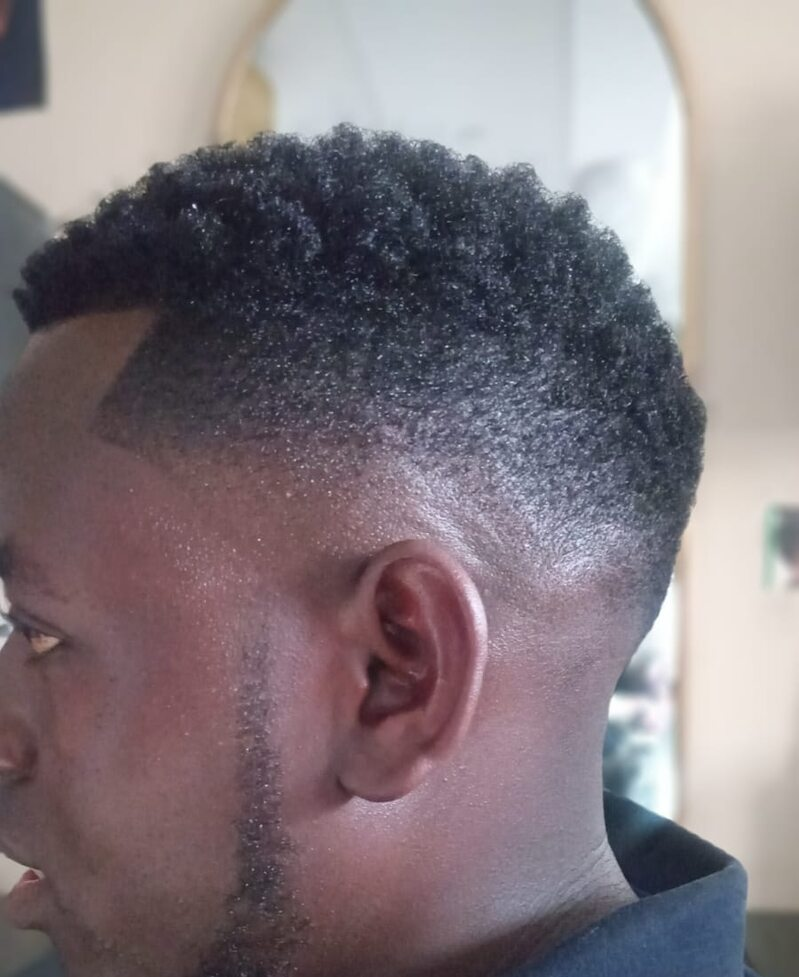
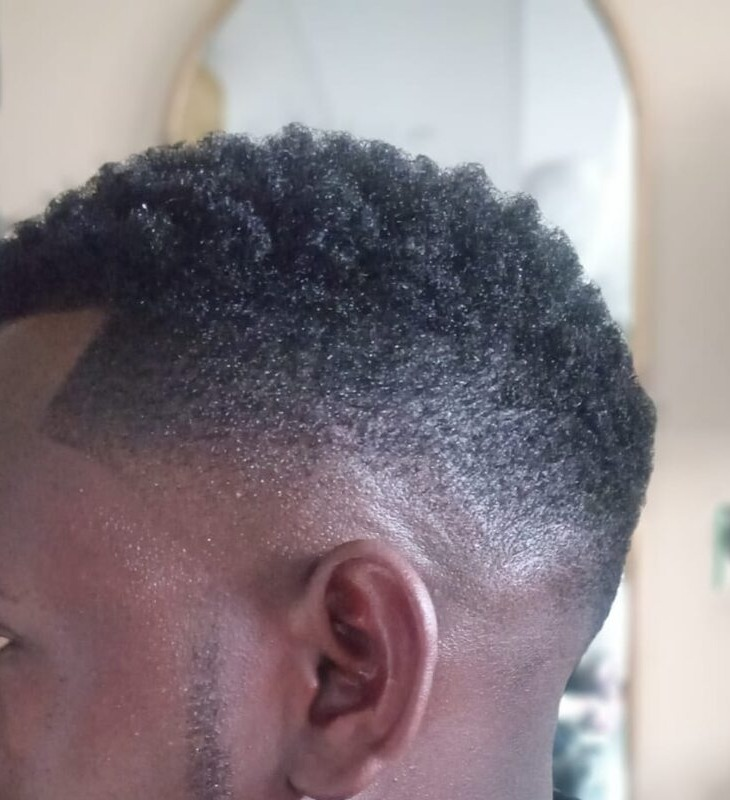
images

diff --git a/index.html b/index.html
@@ -621,28 +621,28 @@
     <div class="section-label" style="margin-bottom:16px;">Fresh Cuts</div>
     <h3 class="section-title" style="font-size:clamp(1.4rem,3vw,2.2rem);margin-bottom:30px;">Our <span class="accent">Barbershop</span> Work</h3>
     <div style="display:grid;grid-template-columns:repeat(3,1fr);gap:12px;">
-      <div class="gallery-item" style="overflow:hidden;position:relative;border-radius:2px;height:280px;">
-        <img src="images/haircut-fade-side.jpg" alt="Low Fade Cut" loading="lazy" style="width:100%;height:100%;object-fit:cover;object-position:center top;display:block;"/>
+      <div class="gallery-item" style="overflow:hidden;position:relative;border-radius:2px;aspect-ratio:1/1;">
+        <img src="images/haircut-fade-side.jpg" alt="Low Fade Cut" loading="lazy" style="width:100%;height:100%;object-fit:cover;object-position:center center;display:block;"/>
         <div class="gallery-caption">Low Fade</div>
       </div>
-      <div class="gallery-item" style="overflow:hidden;position:relative;border-radius:2px;height:280px;">
-        <img src="images/haircut-taper-side.jpg" alt="High Taper Fade" loading="lazy" style="width:100%;height:100%;object-fit:cover;object-position:center top;display:block;"/>
+      <div class="gallery-item" style="overflow:hidden;position:relative;border-radius:2px;aspect-ratio:1/1;">
+        <img src="images/haircut-taper-side.jpg" alt="High Taper Fade" loading="lazy" style="width:100%;height:100%;object-fit:cover;object-position:center center;display:block;"/>
         <div class="gallery-caption">High Taper Fade</div>
       </div>
-      <div class="gallery-item" style="overflow:hidden;position:relative;border-radius:2px;height:280px;">
-        <img src="images/haircut-taper-back.jpg" alt="Taper Fade Back" loading="lazy" style="width:100%;height:100%;object-fit:cover;object-position:center top;display:block;"/>
+      <div class="gallery-item" style="overflow:hidden;position:relative;border-radius:2px;aspect-ratio:1/1;">
+        <img src="images/haircut-taper-back.jpg" alt="Taper Fade Back" loading="lazy" style="width:100%;height:100%;object-fit:cover;object-position:center center;display:block;"/>
         <div class="gallery-caption">Clean Taper</div>
       </div>
-      <div class="gallery-item" style="overflow:hidden;position:relative;border-radius:2px;height:280px;">
-        <img src="images/haircut-design-back.jpg" alt="Hair Design Art" loading="lazy" style="width:100%;height:100%;object-fit:cover;object-position:center top;display:block;"/>
+      <div class="gallery-item" style="overflow:hidden;position:relative;border-radius:2px;aspect-ratio:1/1;">
+        <img src="images/haircut-design-back.jpg" alt="Hair Design Art" loading="lazy" style="width:100%;height:100%;object-fit:cover;object-position:center center;display:block;"/>
         <div class="gallery-caption">Custom Design</div>
       </div>
-      <div class="gallery-item" style="overflow:hidden;position:relative;border-radius:2px;height:280px;">
-        <img src="images/haircut-design-art.jpg" alt="Geometric Hair Art" loading="lazy" style="width:100%;height:100%;object-fit:cover;object-position:center top;display:block;"/>
+      <div class="gallery-item" style="overflow:hidden;position:relative;border-radius:2px;aspect-ratio:1/1;">
+        <img src="images/haircut-design-art.jpg" alt="Geometric Hair Art" loading="lazy" style="width:100%;height:100%;object-fit:cover;object-position:center center;display:block;"/>
         <div class="gallery-caption">Geometric Art</div>
       </div>
-      <div class="gallery-item" style="overflow:hidden;position:relative;border-radius:2px;height:280px;">
-        <img src="images/haircut-low-fade.jpg" alt="Buzz Cut Fade" loading="lazy" style="width:100%;height:100%;object-fit:cover;object-position:center top;display:block;"/>
+      <div class="gallery-item" style="overflow:hidden;position:relative;border-radius:2px;aspect-ratio:1/1;">
+        <img src="images/haircut-low-fade.jpg" alt="Buzz Cut Fade" loading="lazy" style="width:100%;height:100%;object-fit:cover;object-position:center center;display:block;"/>
         <div class="gallery-caption">Buzz Fade</div>
       </div>
     </div>
